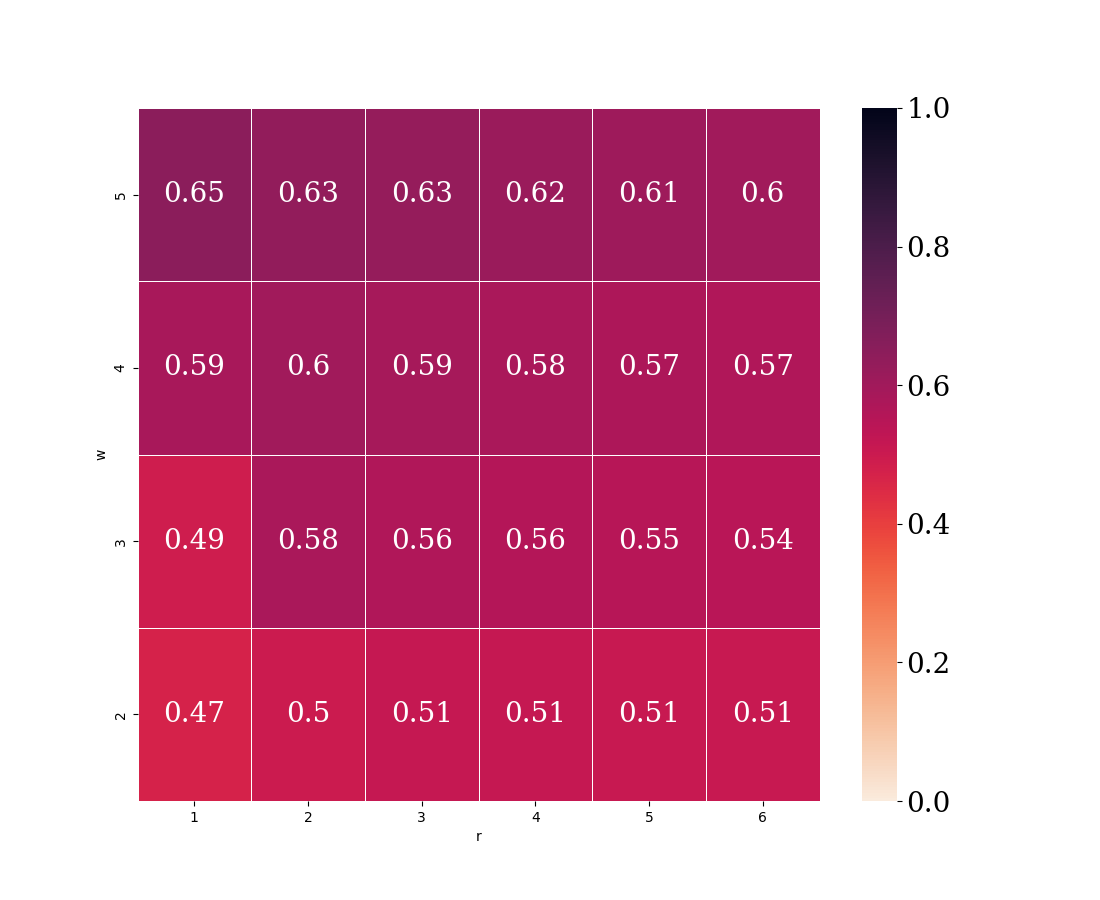
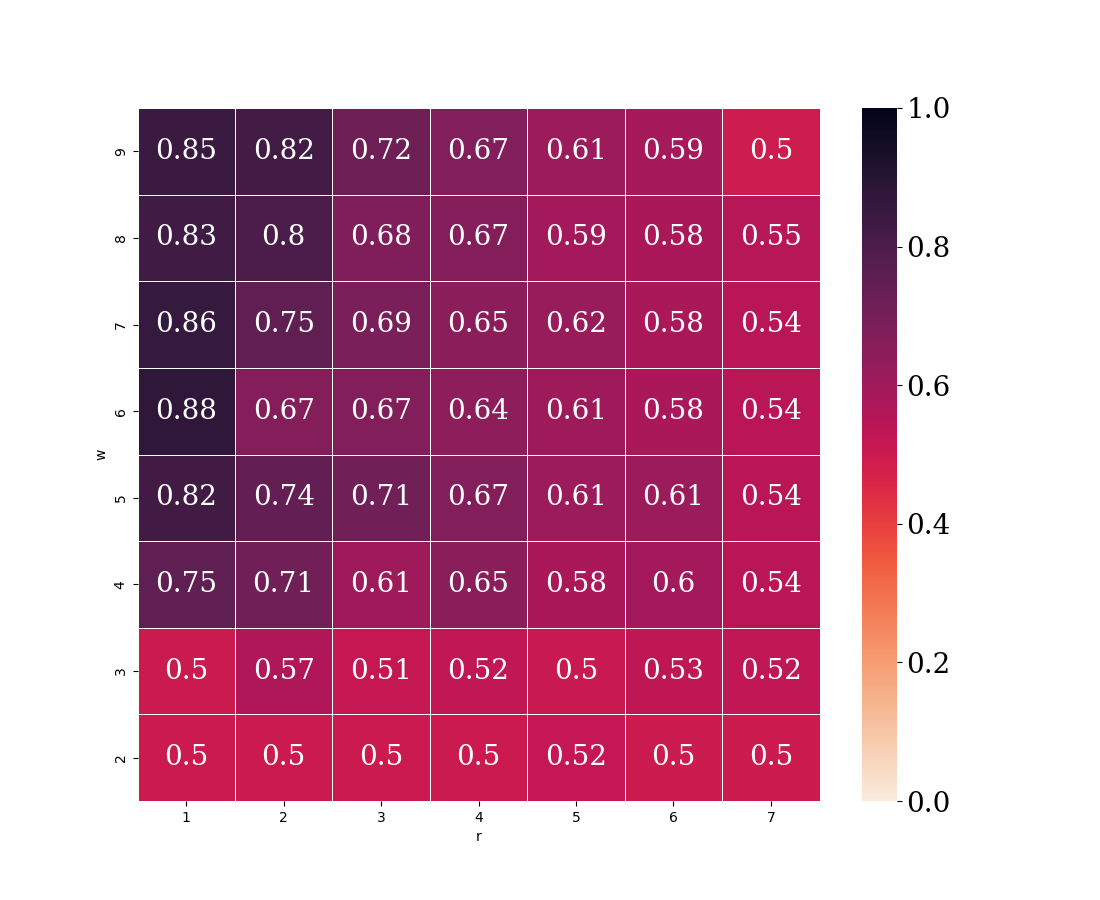
replacement changes

diff --git a/evaluation/data_util/algorithm.py b/evaluation/data_util/algorithm.py
@@ -38,6 +38,9 @@ def get_logs_with_replaced_activities_dict(activities_to_replace_in_each_run_lis
     logs_with_replaced_activities_dict = dict()
     for activities_to_replace_tuple in activities_to_replace_in_each_run_list:
         #log_with_replaced_activities = deepcopy(log_control_flow_perspective)
+        replacing_activities_dict = dict()
+        for activity in activities_to_replace_tuple:
+            replacing_activities_dict[activity] = set(range(activities_to_replace_with_count))
         log_with_replaced_activities = []
         for trace in log_control_flow_perspective:
             i = 0
@@ -49,8 +52,9 @@ def get_logs_with_replaced_activities_dict(activities_to_replace_in_each_run_lis
                 if activity in activities_to_replace_tuple:
                     activity_index = activities_to_replace_tuple.index(activity)
                     if activities_to_replace_with[activity_index] is None:
-                        activities_to_replace_with[activity_index] = activity + ':' + str(
-                            random.randint(0, activities_to_replace_with_count - 1))
+                        if len(replacing_activities_dict[activity]) == 0:
+                            replacing_activities_dict[activity] = set(range(activities_to_replace_with_count))
+                        activities_to_replace_with[activity_index] = activity + ':' + str(replacing_activities_dict[activity].pop())
                     trace_with_replaced_activities[i] = activities_to_replace_with[activity_index]
                 i += 1
             log_with_replaced_activities.append(trace_with_replaced_activities)
@@ -106,7 +110,7 @@ def get_knn_dict(activity_distance_matrix_dict,
     knn_dict = defaultdict(lambda: defaultdict())
     for activity_distance_function in activity_distance_matrix_dict:
         for replaced_activities in activity_distance_matrix_dict[activity_distance_function].keys():
-            nearest_neighbors = get_n_nearest_neighbors(activities_to_replace_with_count-1, replaced_activities,
+            nearest_neighbors = get_n_nearest_neighbors(1, replaced_activities,
                                                         activity_distance_matrix_dict["Bose 2009 Substitution Scores"][
                                                             replaced_activities], activities_to_replace_with_count)
 

diff --git a/evaluation/evaluation_of_activity_distances/evaluation_activity_distance.py b/evaluation/evaluation_of_activity_distances/evaluation_activity_distance.py
@@ -49,15 +49,15 @@ def process_combination(args):
 
 
 if __name__ == '__main__':
-    log = xes_importer.apply(ROOT_DIR + '/event_logs/repairExample.xes')
+    log = xes_importer.apply(ROOT_DIR + '/event_logs/Sepsis.xes')
     log_control_flow_perspective = get_log_control_flow_perspective(log)
     alphabet = get_alphabet(log_control_flow_perspective)
 
     combinations = [
         (
         different_activities_to_replace_count, activities_to_replace_with_count, log_control_flow_perspective, alphabet)
-        for different_activities_to_replace_count in range(1, len(alphabet))
-        for activities_to_replace_with_count in range(2, 10)
+        for different_activities_to_replace_count in range(1, 6)
+        for activities_to_replace_with_count in range(2, 6)
     ]
 
     with Pool() as pool:
